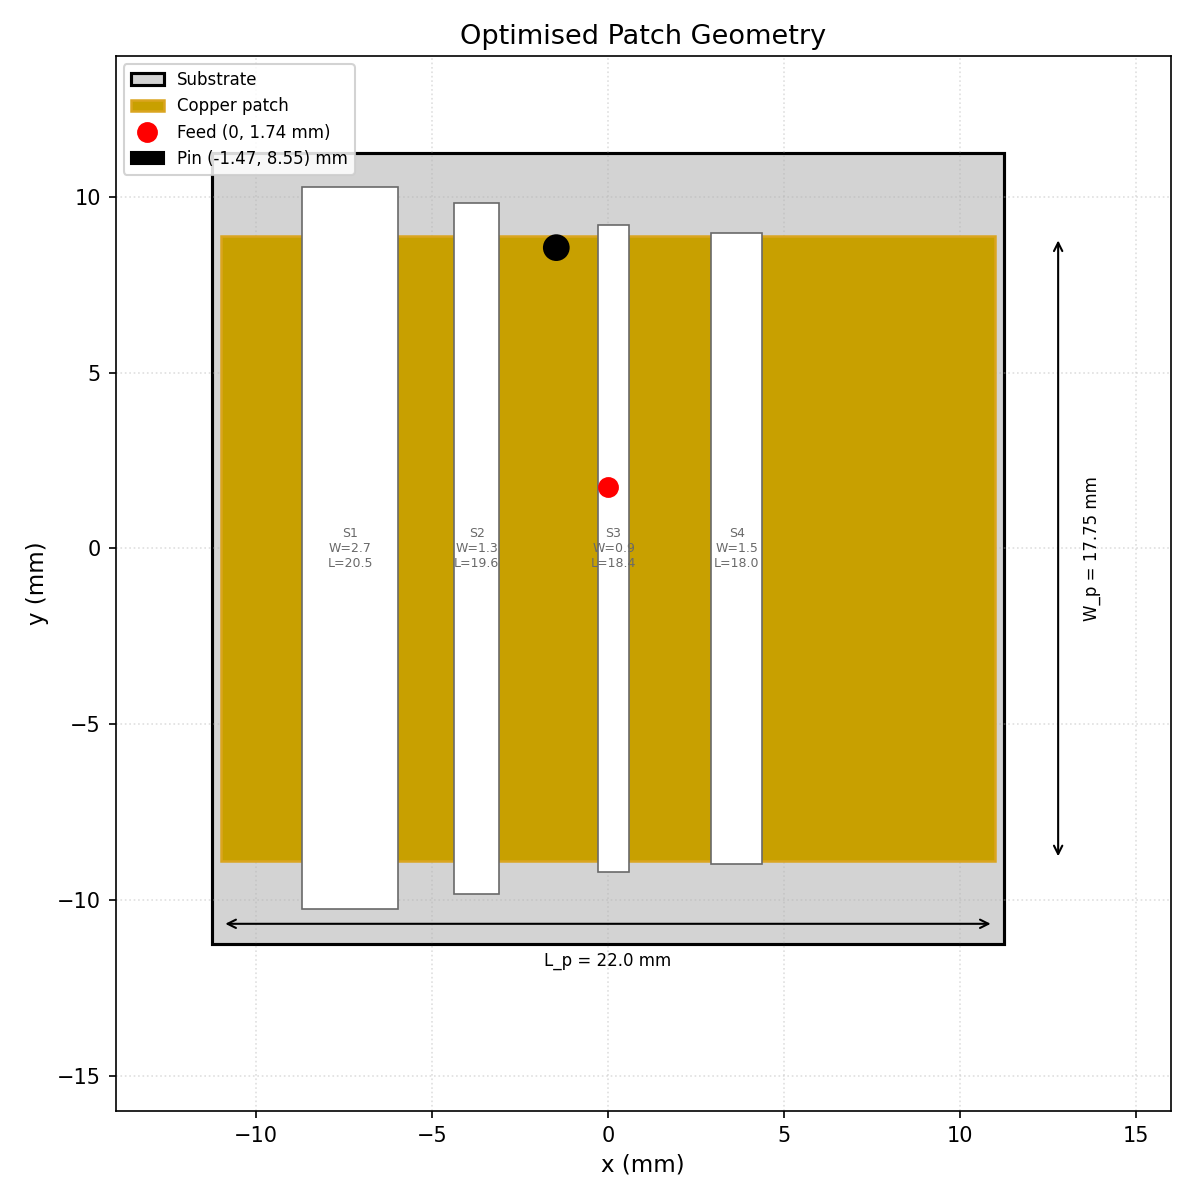
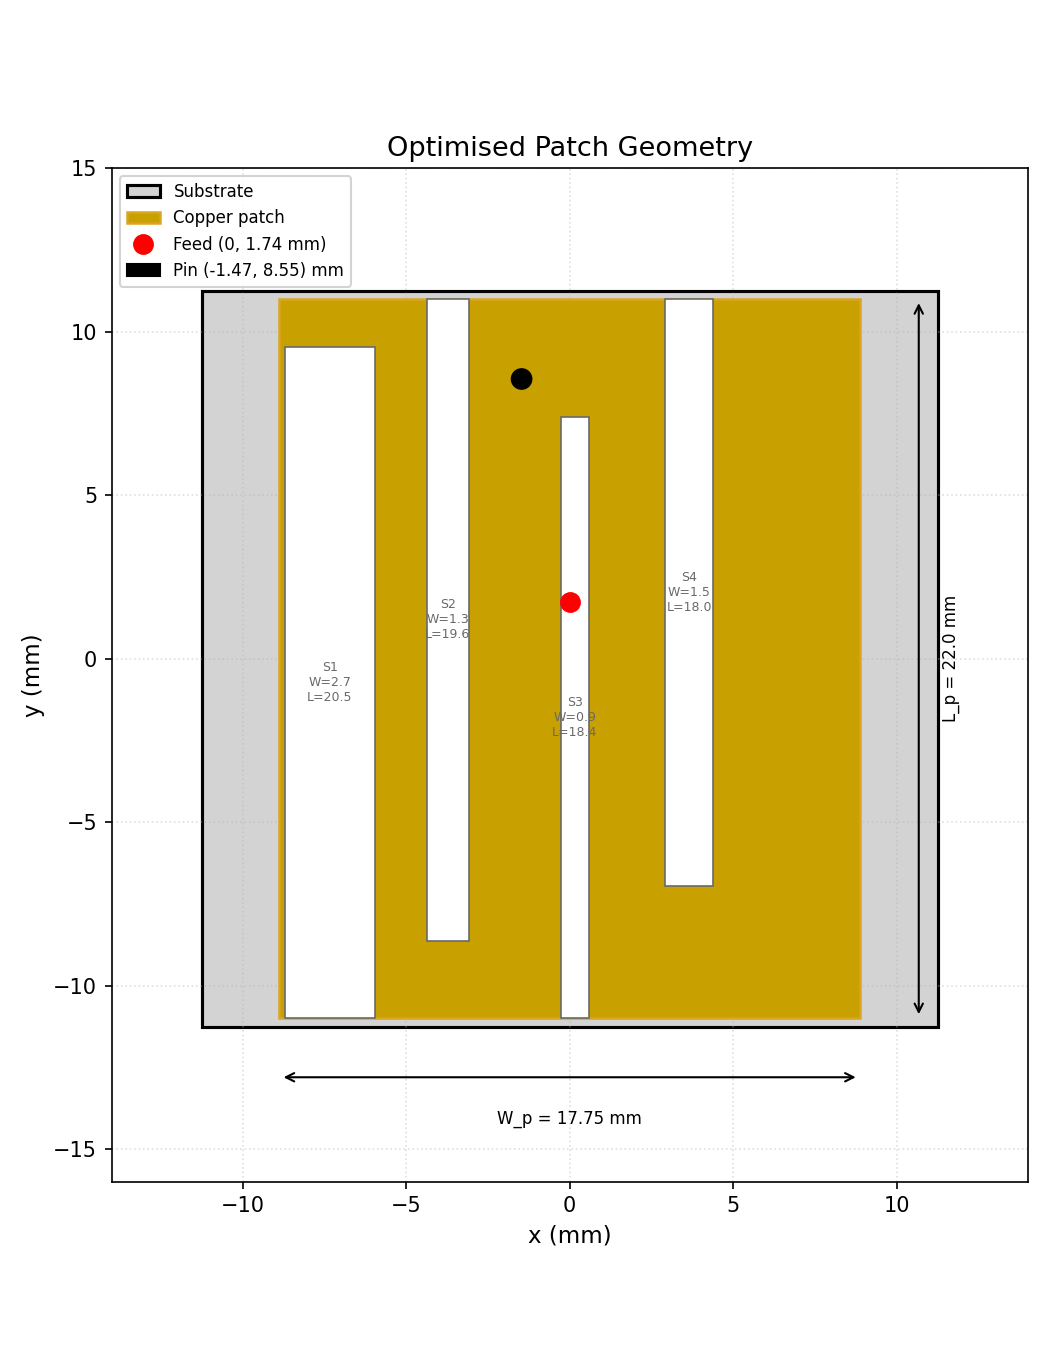
Fix geometry plot orientation and slot interdigitation
- Swap patch to portrait (W_p along x, L_p along y) so slot positions
  P_si and slot lengths L_si map to the correct axes; previously slots
  overshot the patch boundary because L_si > W_p in landscape orientation
- Draw slots interdigitated: S1/S3 open from bottom edge, S2/S4 from
  top edge, reproducing the serpentine current path from Karacolak 2008
- Update dimension arrows and labels to match new orientation

https://claude.ai/code/session_01JEWjV6Adqi3WGtQ47Wr5mc

diff --git a/dual_band_antenna.py b/dual_band_antenna.py
@@ -478,8 +478,14 @@ def plot_S11(freq_array, S11_initial, S11_optimized, save_path="S11_plot.png"):
 def plot_geometry(params, save_path="geometry_plot.png"):
     """
     Top-view patch geometry drawn to scale.
-    Substrate (grey), copper patch (gold), slots (white), feed (red dot),
-    shorting pin (black circle).
+
+    Coordinate convention (matches Karacolak 2008 fig.):
+      x-axis  → W_p direction (17.75 mm wide);  P_si are x-positions
+      y-axis  → L_p direction (22 mm tall);      L_si are slot heights
+
+    Slots are interdigitated: odd slots (S1, S3) open from the bottom edge
+    and even slots (S2, S4) open from the top edge, creating the serpentine
+    current path.
     """
     slots_wl, L_c, F_y, P_x, P_y = _unpack_params(params)
     P_s = [params[0], params[3], params[6], params[9]]
@@ -489,48 +495,57 @@ def plot_geometry(params, save_path="geometry_plot.png"):
     pin_y = L_p / 2 - P_y
     m = 1e3   # m → mm
 
-    fig, ax = plt.subplots(figsize=(8, 8))
+    fig, ax = plt.subplots(figsize=(7, 9))
 
-    # Substrate
-    ax.add_patch(Rectangle((-L_sub/2*m, -W_sub/2*m), L_sub*m, W_sub*m,
+    # Substrate (square — same in both axes)
+    ax.add_patch(Rectangle((-L_sub/2*m, -L_sub/2*m), L_sub*m, L_sub*m,
                             linewidth=1.5, edgecolor="black",
                             facecolor="lightgray", label="Substrate", zorder=1))
-    # Patch
-    ax.add_patch(Rectangle((-L_p/2*m, -W_p/2*m), L_p*m, W_p*m,
+
+    # Copper patch — W_p along x, L_p along y
+    ax.add_patch(Rectangle((-W_p/2*m, -L_p/2*m), W_p*m, L_p*m,
                             linewidth=1.2, edgecolor="goldenrod",
                             facecolor="#C8A000", label="Copper patch", zorder=2))
-    # Slots
+
+    # Slots — interdigitated: odd from bottom, even from top
     for i, (Ps, Ws, Ls) in enumerate(zip(P_s, W_s, L_s)):
-        ax.add_patch(Rectangle((Ps*m - Ws*m/2, -Ls*m/2), Ws*m, Ls*m,
+        if i % 2 == 0:   # S1, S3 — open from bottom edge
+            sy0 = -L_p / 2 * m
+        else:             # S2, S4 — open from top edge
+            sy0 = (L_p / 2 - Ls) * m
+        ax.add_patch(Rectangle((Ps*m - Ws*m/2, sy0), Ws*m, Ls*m,
                                 linewidth=0.8, edgecolor="dimgray",
                                 facecolor="white", zorder=3))
-        ax.text(Ps*m, 0, f"S{i+1}\nW={Ws*m:.1f}\nL={Ls*m:.1f}",
+        label_y = sy0 + Ls*m/2
+        ax.text(Ps*m, label_y, f"S{i+1}\nW={Ws*m:.1f}\nL={Ls*m:.1f}",
                 ha="center", va="center", fontsize=6, color="dimgray", zorder=4)
 
-    # Feed point
+    # Feed point (on the patch, x=0 along width centre, y=F_y along length)
     ax.plot(0, F_y*m, "ro", markersize=9, zorder=6,
             label=f"Feed (0, {F_y*m:.2f} mm)")
 
     # Shorting pin
-    ax.add_patch(Circle((pin_x*m, pin_y*m), radius=0.35,
+    ax.add_patch(Circle((pin_x*m, pin_y*m), radius=0.3,
                          color="black", zorder=6,
                          label=f"Pin ({pin_x*m:.2f}, {pin_y*m:.2f}) mm"))
 
-    # Dimension annotations (arrow-only, no conflicting kwargs)
-    ax.annotate("", xy=(L_p/2*m, -W_p/2*m - 1.8),
-                xytext=(-L_p/2*m, -W_p/2*m - 1.8),
+    # Dimension annotations
+    # Width arrow along x at bottom of patch
+    ax.annotate("", xy=(W_p/2*m, -L_p/2*m - 1.8),
+                xytext=(-W_p/2*m, -L_p/2*m - 1.8),
                 arrowprops=dict(arrowstyle="<->", color="black", lw=1.0))
-    ax.text(0, -W_p/2*m - 2.6, f"L_p = {L_p*m:.1f} mm",
+    ax.text(0, -L_p/2*m - 2.8, f"W_p = {W_p*m:.2f} mm",
             ha="center", va="top", fontsize=8)
 
-    ax.annotate("", xy=(L_p/2*m + 1.8, W_p/2*m),
-                xytext=(L_p/2*m + 1.8, -W_p/2*m),
+    # Length arrow along y at right of patch
+    ax.annotate("", xy=(W_p/2*m + 1.8, L_p/2*m),
+                xytext=(W_p/2*m + 1.8, -L_p/2*m),
                 arrowprops=dict(arrowstyle="<->", color="black", lw=1.0))
-    ax.text(L_p/2*m + 2.5, 0, f"W_p = {W_p*m:.2f} mm",
+    ax.text(W_p/2*m + 2.5, 0, f"L_p = {L_p*m:.1f} mm",
             ha="left", va="center", fontsize=8, rotation=90)
 
-    ax.set_xlim(-14, 16)
-    ax.set_ylim(-16, 14)
+    ax.set_xlim(-14, 14)
+    ax.set_ylim(-16, 15)
     ax.set_aspect("equal")
     ax.set_xlabel("x (mm)", fontsize=11)
     ax.set_ylabel("y (mm)", fontsize=11)
